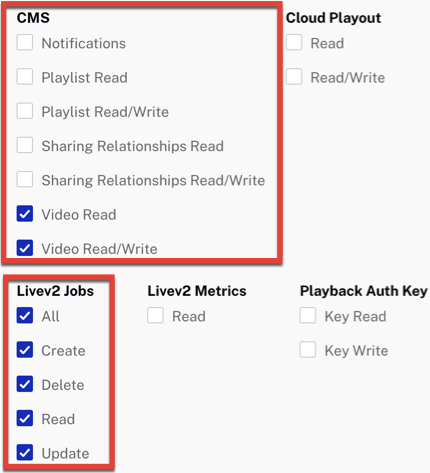
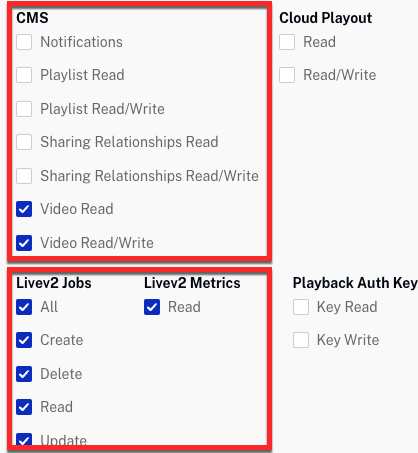
last update quick start

diff --git a/live-2-0/getting-started/quick-start-create-live-stream-using-brightcove-live-2-0-api.html b/live-2-0/getting-started/quick-start-create-live-stream-using-brightcove-live-2-0-api.html
@@ -45,7 +45,7 @@ layout: staging
 <figcaption class="bcls-caption--image">Sharing Relationship Permissions</figcaption>
 </figure>
 
-<p>If the permissions you need are not available in Studio, or if you prefer to get them directly from the OAuth API, use your choice of the <strong>Get Client Credentials</strong> documents listed below. Whichever option you choose, you will need to ask for the correct operation permissions. The following can be used with cURL or Postman to get the proper permissions:</p>
+<p>If the permissions you need are not available in Studio, or if you prefer to get them directly from the <a target="_blank" href="https://apis.support.brightcove.com/oauth/index.html">OAuth API</a>, use your choice of the <strong>Get Client Credentials</strong> documents listed below. Whichever option you choose, you will need to ask for the correct operation permissions. The following can be used with cURL or Postman to get the proper permissions:</p>
 
 <pre class="line-numbers"><code class="language-json" translate="No">"operations": [
     "video-cloud/videos/read",
@@ -55,7 +55,8 @@ layout: staging
 	"video-cloud/livev2/jobs/create",
 	"video-cloud/livev2/jobs/update",
 	"video-cloud/livev2/jobs/delete",
-	"video-cloud/livev2/jobs/all"
+	"video-cloud/livev2/jobs/all",
+	"video-cloud/livev2/metrics/read"
 	]</code></pre>
 
 <ul>
@@ -76,7 +77,8 @@ layout: staging
 	<pre class="line-numbers"><code class="language-http" translate="No">https://api.live.brightcove.com/v2/accounts/&#123;&#123;account_id&#125;&#125;/jobs</code></pre>
 	<p>Replace &#123;&#123;account_id&#125;&#125; with your Brightcove account ID.</p>
 	<p>Use the following as the request body:</p>
-
+	<details>
+		<summary>Sample Request Body</summary>
 	<pre class="line-numbers"><code class="language-json" translate="No">{
    "name": "BCLS Job",
    "description": "Blive Job",
@@ -179,6 +181,7 @@ layout: staging
      "day": "MONDAY"
    }
  } </code></pre>
+</details>
 	</li>
 	<li><p>In the <strong>Authorization</strong> tab, set the type to <strong>OAuth 2.0</strong>, then fill in the following fields:</p>
 		<ul>
@@ -341,8 +344,10 @@ layout: staging
 		<p>Replace &#123;&#123;account_id&#125;&#125; with your Brightcove account ID and the &#123;&#123;Job_ID&#125;&#125; with the Job ID.</p>
  		</li>
 		 <li>Ensure you have a valid <strong>OAuth 2.0 Bearer Token</strong>. If the token has expired, refresh it.</li>
-		 <li>A successful response will return an HTTP status code of <code translate="no">200 OK</code>, along with a JSON payload containing the job details. Look for the <code translate="no">ingest_endpoints</code> field, which provides the <strong>RTMP URL</strong> to configure your encoder.
-		<p>sample response:</p>
+		 <li><p>A successful response will return an HTTP status code of <code translate="no">200 OK</code>, along with a JSON payload containing the job details. Look for the <code translate="no">ingest_endpoints</code> field, which provides the <strong>RTMP URL</strong> to configure your encoder.</p>
+		
+		<details>
+			<summary>Sample Response</summary>
 		<pre class="line-numbers"><code class="language-json" translate="No">{
    	"id": "1816266131926533508",
    	"account_id": "17526048509001",
@@ -362,6 +367,7 @@ layout: staging
    	},
    	...
  }</code></pre>
+	</details>
 		</li>
 	</ol>
 </section>
@@ -416,7 +422,7 @@ layout: staging
 
 <p>Now that we have the live stream information, we will set up a remote video in Video Cloud so that we can play it in a Brightcove Player.</p>
 
-<div><p>In these steps, we set the video up using the <a href="/cms/">CMS API</a>, but this can also be done in Video Cloud Studio, if you prefer - see the alternative steps below.</p>
+<div><p>In these steps, we set the video up using the <a href="/cms/">CMS API</a>, but this can also be done in Video Cloud Studio, if you prefer - <a href="#studio-create-video">see the alternative steps below</a>.</p>
 
 <p>If you are using Postman, you will need to set up OAuth2 authentication using your client credentials.</p>
 </ul>
@@ -440,7 +446,7 @@ layout: staging
 	<li>
 	<p>To add the HLS stream, you will make another <code translate="No">POST</code> request to:</p>
 
-	<pre><code class="language-http" translate="No">https://cms.api.brightcove.com/v1/accounts/<span class="bcls-input">account_id</span>/videos/<span class="bcls-input">video_id</span>/assets/hls_manifest</code></pre>
+	<pre><code class="language-http" translate="No">https://cms.api.brightcove.com/v1/accounts/<span class="bcls-input">account_id</span>/videos/<span class="bcls-input">job_id</span>/assets/hls_manifest</code></pre>
 	</li>
 	<li>
 	<p>This time, the request body will be:</p>
@@ -486,7 +492,7 @@ layout: staging
 </ol>
 </section>
 
-<section class="bcls-section">
+<!-- <section class="bcls-section">
 <h2 id="cURL_commands">cURL commands</h2>
 
 <p>This section provides alternative cURL commands for those who do not use a REST client such as Postman.</p>
@@ -554,10 +560,10 @@ layout: staging
 </details>
 
 <p>Replace the <code translate="no">{Account_ID}</code> and <code translate="no">{ACCESS_TOKEN}</code> placeholders with your respective Brightcove account ID and your OAuth 2.0 access token.</p>
-</section>
+</section> -->
 
-<section class="bcls-section">
-<h2 id="Use_Studio_to_create_the_video">Use Studio to create the video</h2>
+<!-- <section class="bcls-section">
+<h2 id="studio-create-video">Use Studio to create the video</h2>
 
 <p>Here are alternative steps for creating the video in Studio.</p>
 
@@ -577,7 +583,7 @@ layout: staging
 	<aside class="bcls-aside bcls-aside--information">Note: if you want to stream over HTTPS for a secure stream, simply change <code translate="No">http</code> in the playback_url to <code translate="No">https</code>.</aside>
 	</li>
 </ol>
-</section>
+</section> -->
 
 <section class="bcls-section">
 <h2 id="Use_Wirecast_to_stream_an_event">Use Wirecast to stream an event</h2>

diff --git a/_site/live-2-0/getting-started/quick-start-create-live-stream-using-brightcove-live-2-0-api.html b/_site/live-2-0/getting-started/quick-start-create-live-stream-using-brightcove-live-2-0-api.html
@@ -3665,7 +3665,7 @@
 <figcaption class="bcls-caption--image">Sharing Relationship Permissions</figcaption>
 </figure>
 
-<p>If the permissions you need are not available in Studio, or if you prefer to get them directly from the OAuth API, use your choice of the <strong>Get Client Credentials</strong> documents listed below. Whichever option you choose, you will need to ask for the correct operation permissions. The following can be used with cURL or Postman to get the proper permissions:</p>
+<p>If the permissions you need are not available in Studio, or if you prefer to get them directly from the <a target="_blank" href="https://apis.support.brightcove.com/oauth/index.html">OAuth API</a>, use your choice of the <strong>Get Client Credentials</strong> documents listed below. Whichever option you choose, you will need to ask for the correct operation permissions. The following can be used with cURL or Postman to get the proper permissions:</p>
 
 <pre class="line-numbers"><code class="language-json" translate="No">"operations": [
     "video-cloud/videos/read",
@@ -3675,7 +3675,8 @@
 	"video-cloud/livev2/jobs/create",
 	"video-cloud/livev2/jobs/update",
 	"video-cloud/livev2/jobs/delete",
-	"video-cloud/livev2/jobs/all"
+	"video-cloud/livev2/jobs/all",
+	"video-cloud/livev2/metrics/read"
 	]</code></pre>
 
 <ul>
@@ -3696,7 +3697,8 @@
 	<pre class="line-numbers"><code class="language-http" translate="No">https://api.live.brightcove.com/v2/accounts/&#123;&#123;account_id&#125;&#125;/jobs</code></pre>
 	<p>Replace &#123;&#123;account_id&#125;&#125; with your Brightcove account ID.</p>
 	<p>Use the following as the request body:</p>
-
+	<details>
+		<summary>Sample Request Body</summary>
 	<pre class="line-numbers"><code class="language-json" translate="No">{
    "name": "BCLS Job",
    "description": "Blive Job",
@@ -3799,6 +3801,7 @@
      "day": "MONDAY"
    }
  } </code></pre>
+</details>
 	</li>
 	<li><p>In the <strong>Authorization</strong> tab, set the type to <strong>OAuth 2.0</strong>, then fill in the following fields:</p>
 		<ul>
@@ -3961,8 +3964,10 @@
 		<p>Replace &#123;&#123;account_id&#125;&#125; with your Brightcove account ID and the &#123;&#123;Job_ID&#125;&#125; with the Job ID.</p>
  		</li>
 		 <li>Ensure you have a valid <strong>OAuth 2.0 Bearer Token</strong>. If the token has expired, refresh it.</li>
-		 <li>A successful response will return an HTTP status code of <code translate="no">200 OK</code>, along with a JSON payload containing the job details. Look for the <code translate="no">ingest_endpoints</code> field, which provides the <strong>RTMP URL</strong> to configure your encoder.
-		<p>sample response:</p>
+		 <li><p>A successful response will return an HTTP status code of <code translate="no">200 OK</code>, along with a JSON payload containing the job details. Look for the <code translate="no">ingest_endpoints</code> field, which provides the <strong>RTMP URL</strong> to configure your encoder.</p>
+		
+		<details>
+			<summary>Sample Response</summary>
 		<pre class="line-numbers"><code class="language-json" translate="No">{
    	"id": "1816266131926533508",
    	"account_id": "17526048509001",
@@ -3982,6 +3987,7 @@
    	},
    	...
  }</code></pre>
+	</details>
 		</li>
 	</ol>
 </section>
@@ -4036,7 +4042,7 @@
 
 <p>Now that we have the live stream information, we will set up a remote video in Video Cloud so that we can play it in a Brightcove Player.</p>
 
-<div><p>In these steps, we set the video up using the <a href="/cms/">CMS API</a>, but this can also be done in Video Cloud Studio, if you prefer - see the alternative steps below.</p>
+<div><p>In these steps, we set the video up using the <a href="/cms/">CMS API</a>, but this can also be done in Video Cloud Studio, if you prefer - <a href="#studio-create-video">see the alternative steps below</a>.</p>
 
 <p>If you are using Postman, you will need to set up OAuth2 authentication using your client credentials.</p>
 </ul>
@@ -4060,7 +4066,7 @@
 	<li>
 	<p>To add the HLS stream, you will make another <code translate="No">POST</code> request to:</p>
 
-	<pre><code class="language-http" translate="No">https://cms.api.brightcove.com/v1/accounts/<span class="bcls-input">account_id</span>/videos/<span class="bcls-input">video_id</span>/assets/hls_manifest</code></pre>
+	<pre><code class="language-http" translate="No">https://cms.api.brightcove.com/v1/accounts/<span class="bcls-input">account_id</span>/videos/<span class="bcls-input">job_id</span>/assets/hls_manifest</code></pre>
 	</li>
 	<li>
 	<p>This time, the request body will be:</p>
@@ -4106,7 +4112,7 @@
 </ol>
 </section>
 
-<section class="bcls-section">
+<!-- <section class="bcls-section">
 <h2 id="cURL_commands">cURL commands</h2>
 
 <p>This section provides alternative cURL commands for those who do not use a REST client such as Postman.</p>
@@ -4174,10 +4180,10 @@
 </details>
 
 <p>Replace the <code translate="no">{Account_ID}</code> and <code translate="no">{ACCESS_TOKEN}</code> placeholders with your respective Brightcove account ID and your OAuth 2.0 access token.</p>
-</section>
+</section> -->
 
-<section class="bcls-section">
-<h2 id="Use_Studio_to_create_the_video">Use Studio to create the video</h2>
+<!-- <section class="bcls-section">
+<h2 id="studio-create-video">Use Studio to create the video</h2>
 
 <p>Here are alternative steps for creating the video in Studio.</p>
 
@@ -4197,7 +4203,7 @@
 	<aside class="bcls-aside bcls-aside--information">Note: if you want to stream over HTTPS for a secure stream, simply change <code translate="No">http</code> in the playback_url to <code translate="No">https</code>.</aside>
 	</li>
 </ol>
-</section>
+</section> -->
 
 <section class="bcls-section">
 <h2 id="Use_Wirecast_to_stream_an_event">Use Wirecast to stream an event</h2>
